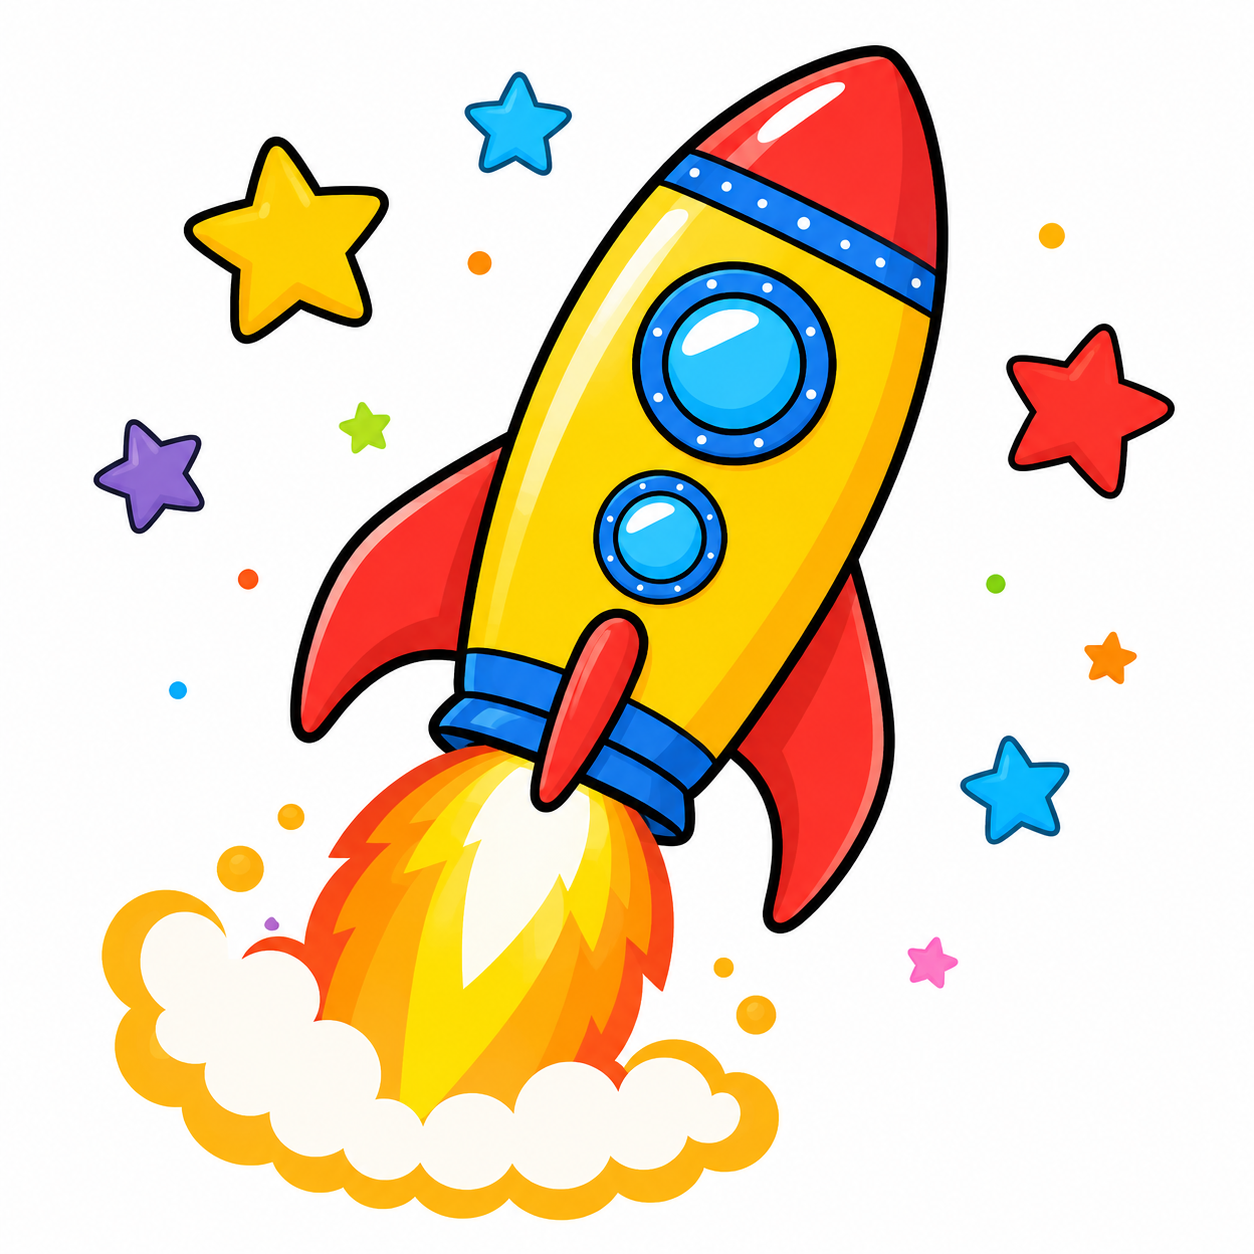
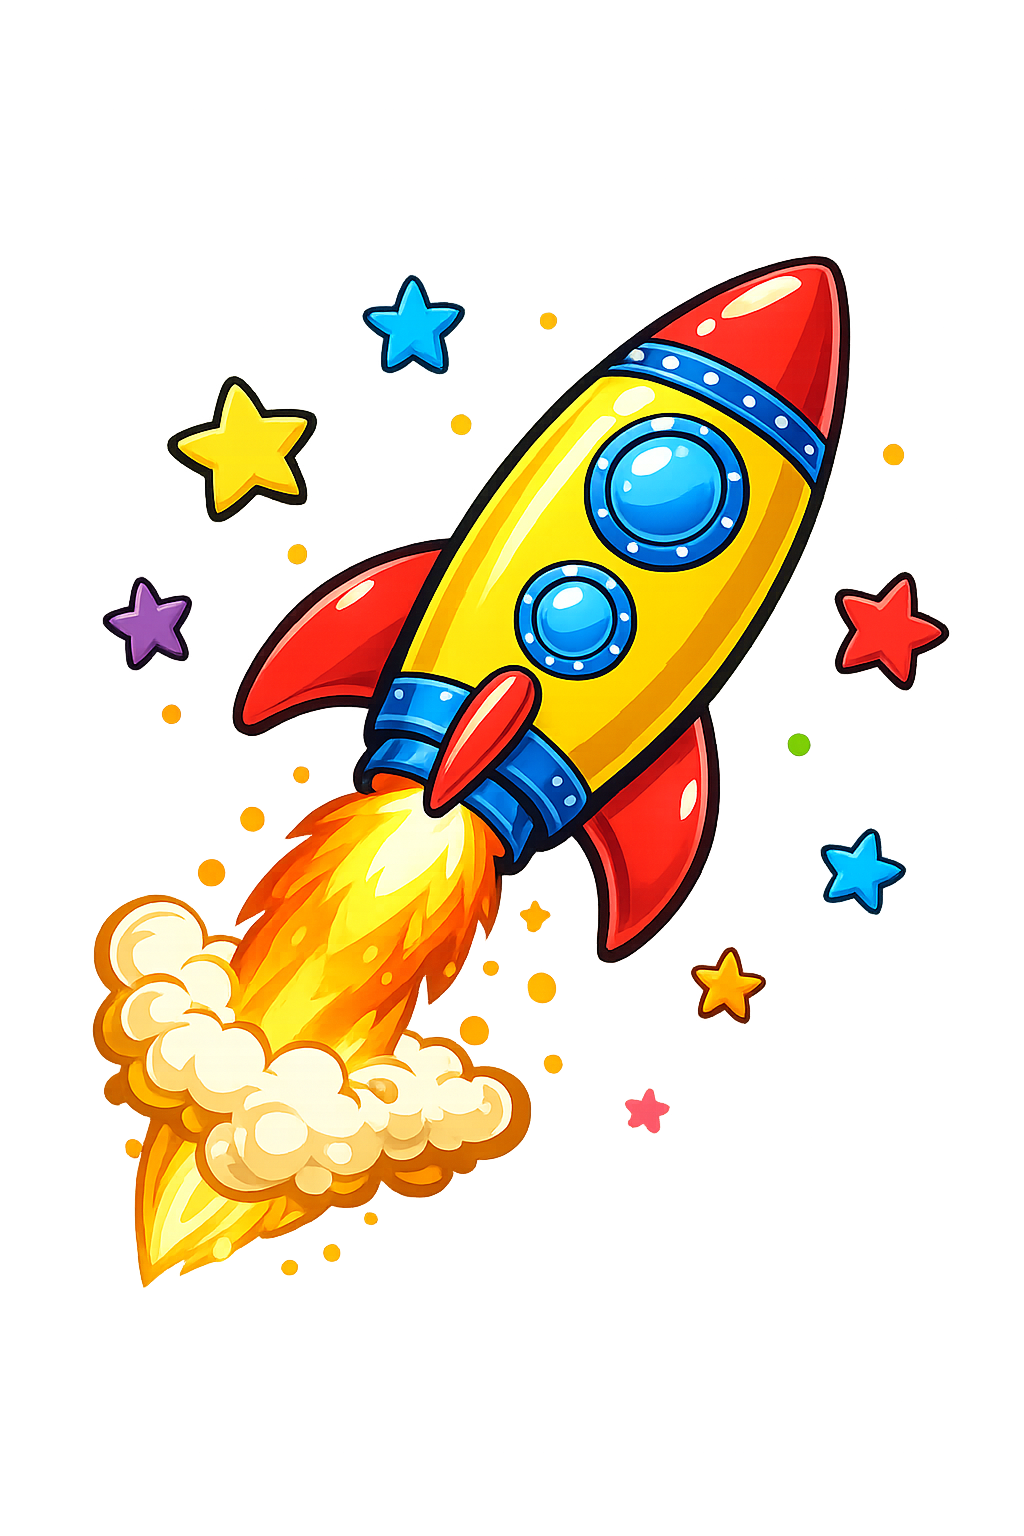
Add object images and bigger apples to lessons

diff --git a/src/screens/LessonScreen.jsx b/src/screens/LessonScreen.jsx
@@ -7,6 +7,51 @@ import { loadAccessKey } from '../utils/storage'
 
 const allData = [...stage0]
 
+// ─── Object image mapping ───
+// Maps lesson emojis to your PNG files in public/assets/images/.
+// If an emoji is in this list, the matching PNG is shown.
+// If it is NOT in the list, the emoji itself is shown instead.
+// To add more later, just generate the PNG and add a line here.
+const OBJECT_IMAGES = {
+  '🍎': 'obj_apple.png',
+  '🎈': 'obj_balloon.png',
+  '🦋': 'obj_butterfly.png',
+  '🐱': 'obj_cat.png',
+  '☁': 'obj_cloud.png',
+  '🦆': 'obj_duck.png',
+  '🐟': 'obj_fish.png',
+  '🌸': 'obj_flower.png',
+  '🌺': 'obj_flower.png',
+  '⭐': 'obj_star.png',
+  '🌟': 'obj_star.png',
+  '🌲': 'obj_tree.png',
+}
+
+// Renders a single lesson object: a PNG if we have one, otherwise the emoji.
+function ObjectIcon({ obj }) {
+  const file = OBJECT_IMAGES[obj]
+  if (file) {
+    return (
+      <img
+        src={`/assets/images/${file}`}
+        alt=""
+        style={{
+          width: '120px',
+          height: '120px',
+          objectFit: 'contain',
+          display: 'inline-block',
+        }}
+      />
+    )
+  }
+  // Fallback: emoji, sized to roughly match the images
+  return (
+    <span style={{ fontSize: '70px', lineHeight: 1, display: 'inline-block' }}>
+      {obj}
+    </span>
+  )
+}
+
 export default function LessonScreen() {
   const navigate = useNavigate()
   const location = useLocation()
@@ -134,15 +179,13 @@ export default function LessonScreen() {
         {part === 'LEARN' && (
           <div className="learn-section">
             <h2 className="learn-title">{lesson.learn.title}</h2>
-            <div className="learn-scene">
-              <div className="scene-objects">
-                {scene.objects.map((obj, i) => (
-                  <span key={i} className="scene-obj">{obj}</span>
-                ))}
-              </div>
-              <div className="scene-number">{scene.number}</div>
-              <div className="scene-word">{scene.word}</div>
+            <div className="scene-objects">
+              {scene.objects.map((obj, i) => (
+                <ObjectIcon key={i} obj={obj} />
+              ))}
             </div>
+            <div className="scene-number">{scene.number}</div>
+            <div className="scene-word">{scene.word}</div>
             <div className="slide-dots">
               {lesson.learn.scenes.map((_, i) => (
                 <span key={i} className={`dot ${i === sceneIndex ? 'active' : ''}`} />
@@ -158,10 +201,10 @@ export default function LessonScreen() {
         {part === 'PLAY' && (
           <div className="play-section">
             <div className="question-counter">Round {playIndex + 1} of {lesson.play.length}</div>
-            {playQ.objects && (
+            {playQ.objects && playQ.objects.length > 0 && (
               <div className="play-objects">
                 {playQ.objects.map((obj, i) => (
-                  <span key={i} className="play-obj">{obj}</span>
+                  <ObjectIcon key={i} obj={obj} />
                 ))}
               </div>
             )}
@@ -207,11 +250,13 @@ export default function LessonScreen() {
               ))}
             </div>
             <div className="question-text">{proveQ.question}</div>
-            <div className="proveit-objects">
-              {proveQ.objects && proveQ.objects.map((obj, i) => (
-                <span key={i} className="proveit-obj">{obj}</span>
-              ))}
-            </div>
+            {proveQ.objects && proveQ.objects.length > 0 && (
+              <div className="proveit-objects">
+                {proveQ.objects.map((obj, i) => (
+                  <ObjectIcon key={i} obj={obj} />
+                ))}
+              </div>
+            )}
             <div className="options-grid">
               {proveQ.choices && proveQ.choices.map(choice => (
                 <button

diff --git a/src/screens/StarAwardScreen.jsx b/src/screens/StarAwardScreen.jsx
@@ -13,13 +13,42 @@ export default function StarAwardScreen() {
 
   return (
     <div className="stars-screen">
+      <style>{`
+        @keyframes starPop {
+          0%   { transform: scale(0) rotate(-30deg); opacity: 0; }
+          60%  { transform: scale(1.25) rotate(8deg); }
+          100% { transform: scale(1) rotate(0deg); opacity: 1; }
+        }
+        .award-star {
+          width: 130px;
+          height: 130px;
+          object-fit: contain;
+          margin: 0 10px;
+        }
+        .award-star.earned {
+          animation: starPop 0.6s ease-out both;
+          filter: drop-shadow(0 0 14px rgba(255, 200, 0, 0.7));
+        }
+        .award-star.earned.s1 { animation-delay: 0.1s; }
+        .award-star.earned.s2 { animation-delay: 0.35s; }
+        .award-star.earned.s3 { animation-delay: 0.6s; }
+        .award-star.empty {
+          opacity: 0.3;
+        }
+        @media (max-width: 600px) {
+          .award-star { width: 90px; height: 90px; margin: 0 6px; }
+        }
+      `}</style>
       <div className="stars-card">
         <div className="stars-title">{messages[stars]}</div>
         <div className="stars-display">
           {[1, 2, 3].map(i => (
-            <span key={i} className={`big-star ${i <= stars ? 'earned' : 'empty'}`}>
-              ⭐
-            </span>
+            <img
+              key={i}
+              src={i <= stars ? '/assets/images/star_gold.png' : '/assets/images/star_silver.png'}
+              alt={i <= stars ? 'Gold star' : 'Empty star'}
+              className={`award-star ${i <= stars ? `earned s${i}` : 'empty'}`}
+            />
           ))}
         </div>
         <div className="stars-score">
